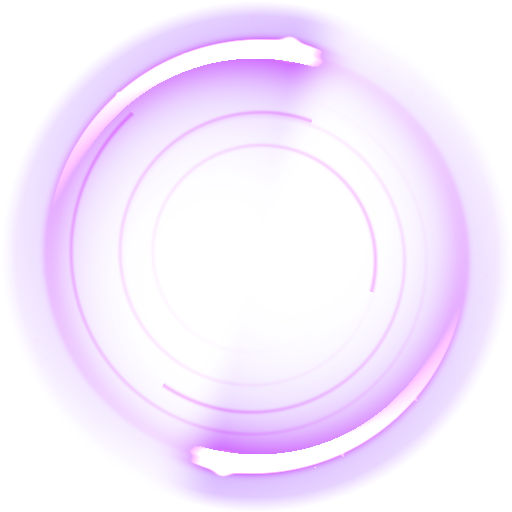
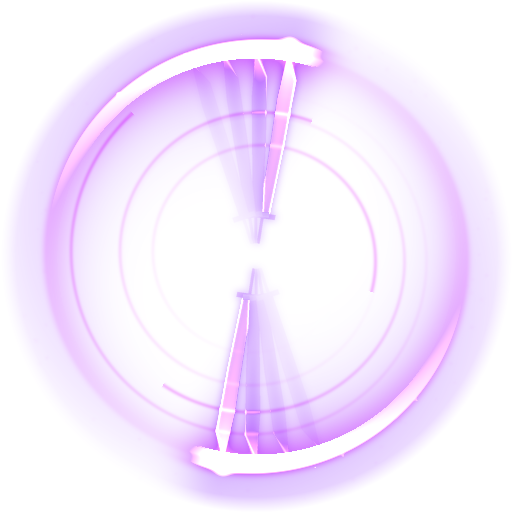
Bá Đao Trảm: thêm bóng đao trong vòng xoáy, xoay đúng chiều; đao khí bay đồng tâm với vòng xoáy (nở rộng từ mép vòng), kiểm tra đủ 8 hướng
Claude-Session: https://claude.ai/code/session_014A94BHnyL4tu48AS77QbVM

Changed region(s): [[0.4375, 0.0938, 0.5938, 0.4688], [0.4062, 0.5312, 0.5625, 0.9062]]

diff --git a/src/vfx/skillFx.ts b/src/vfx/skillFx.ts
@@ -160,7 +160,8 @@ export const baDaoKey = (d: string): string => `vx_badao_${d}`;
 export const baDaoWaveKey = (d: string): string => `vx_badao_wave_${d}`;
 /** độ đục tối đa của vòng đao khí + đao khí bay (làm mờ bớt để không che quái / nhân vật) */
 const BA_DAO_ALPHA = 0.72;
-const baDaoDir = (a: number): string => BA_DAO_DIRS[((Math.round(a / (Math.PI / 4)) % 8) + 8) % 8];
+/** phối cảnh mặt đất ảnh đao khí bay dựng sẵn (tools/art/ba_dao_wave.py: K) */
+const BA_DAO_WAVE_K = 0.7;
 
 export const BA_DAO_SPIN = 'vx_badao_spin';
 
@@ -204,16 +205,31 @@ const baDao: Fx = (s, aw) => {
       k.glow(nearest.x, nearest.y - 12, 0xf0a0ff, 34, 200);
       k.burst(nearest.x, nearest.y - 12, [0xffffff, 0xf08aff], 6, { tex: VT.SPARK, speed: [80, 200], scale: [0.35, 0], life: 240 });
     }
-    // THỨC TỈNH: cứ 3 vòng văng 1 đao khí bay xuyên về phía quái gần nhất
+    // THỨC TỈNH: cứ 3 vòng văng 1 đao khí — cung lưỡi liềm ĐỒNG TÂM với vòng đao xoáy: tâm ảnh đặt đúng tâm vòng,
+    // bắt đầu ở đúng mép vòng rồi NỞ RỘNG ra (không trượt lệch tâm). Ảnh dựng sẵn 8 hướng (ba_dao_wave.py: mép trước bán
+    // kính 300 đơn vị mặt đất, khung ±380 → 151,6px/ảnh 384; phối cảnh K=0,7) → ép thêm dọc để khớp KY của vòng xoáy.
     if (aw && spins % 3 === 0) {
       const tg = s.targets().slice().sort((p1, p2) => dist(p1, h) - dist(p2, h))[0];
-      const a = tg ? ang(h, tg) : a0;
-      const end = polar(h, a, 300);
-      const w = sc.add.image(h.x, h.y, baDaoWaveKey(baDaoDir(a))).setDepth(9).setAlpha(0).setScale(0.6);
-      sc.tweens.add({ targets: w, alpha: BA_DAO_ALPHA, scale: 0.8, duration: 90, ease: 'Quad.easeOut' });
-      sc.tweens.add({ targets: w, x: end.x, y: end.y, duration: 480, ease: 'Sine.easeIn' });
+      const f = foot();
+      // so trên MẶT ĐẤT (bỏ ép dẹt): hướng tới quái ↔ hướng mặt đất của từng ảnh (ảnh dựng theo góc màn hình với K=0,7)
+      const want = tg ? Math.atan2((tg.y - f.y) / KY, tg.x - f.x) : a0;
+      const gA = (i: number) => Math.atan2(Math.sin((i * Math.PI) / 4) / BA_DAO_WAVE_K, Math.cos((i * Math.PI) / 4));
+      let bi = 0;
+      for (let i = 1; i < 8; i++) if (Math.abs(Phaser.Math.Angle.Wrap(gA(i) - want)) < Math.abs(Phaser.Math.Angle.Wrap(gA(bi) - want))) bi = i;
+      const d8 = BA_DAO_DIRS[bi], a = gA(bi);
+      const R_IMG = 157, FLY = 320;                     // 157: bán kính mép trước đo thật trên ảnh (tools/art/ba_dao_wave.py)
+      const w = sc.add.image(f.x, f.y, baDaoWaveKey(d8)).setDepth(9).setAlpha(0);
+      const sz = { r: R };
+      const put = () => w.setScale(sz.r / R_IMG, (sz.r / R_IMG) * (KY / BA_DAO_WAVE_K));
+      put();
+      sc.tweens.add({ targets: w, alpha: BA_DAO_ALPHA, duration: 80 });
+      sc.tweens.add({ targets: sz, r: FLY, duration: 460, ease: 'Sine.easeIn', onUpdate: put });
       sc.tweens.add({ targets: w, alpha: 0, delay: 320, duration: 160, onComplete: () => w.destroy() });
-      for (const o of s.targets()) if (Math.abs(Phaser.Math.Angle.Wrap(ang(h, o) - a)) < 0.25 && dist(h, o) < 300) k.later((dist(h, o) / 300) * 420, () => s.hit(o, 0xf0a0ff));
+      for (const o of s.targets()) {
+        const od = Math.hypot(o.x - f.x, (o.y - f.y) / KY);
+        if (od > R && od < FLY && Math.abs(Phaser.Math.Angle.Wrap(Math.atan2((o.y - f.y) / KY, o.x - f.x) - a)) < 0.45)
+          k.later(((od - R) / (FLY - R)) * 400, () => s.hit(o, 0xf0a0ff));
+      }
     }
   };
   const ev = sc.time.addEvent({
@@ -221,9 +237,9 @@ const baDao: Fx = (s, aw) => {
       t += 16;
       const f = foot();
       ct.setPosition(f.x, f.y);
-      const rot = -(t / SPIN) * Math.PI * 2;                            // xoay ngược chiều kim đồng hồ trên màn hình
+      const rot = (t / SPIN) * Math.PI * 2;                             // xoay THEO chiều kim đồng hồ trên màn hình (đầu vệt + lưỡi đao đi trước)
       im.setRotation(rot);
-      ghost.setRotation(rot + 0.5);
+      ghost.setRotation(rot - 0.5);
       s.pose?.('ba_dao', 0, a0 + rot);                                  // nhân vật xoay theo vòng đao (đổi hướng nhìn liên tục)
       if (Math.floor(t / SPIN) > spins) { spins++; slash(); }
       if (t >= DUR) {

diff --git a/tools/art/ba_dao_spin.py b/tools/art/ba_dao_spin.py
@@ -2,7 +2,9 @@
 BÁ ĐAO TRẢM (đại trùng tu: XOAY ĐAO) — VÒNG ĐAO KHÍ XOÁY, vẽ mới, nhìn TỪ TRÊN XUỐNG (game ép dẹt theo mặt đất + xoay nhanh):
   · 2 vệt chém hình lưỡi liềm đối xứng chạy quanh vòng tròn: ĐẦU vệt dày + sáng (mép lưỡi đao trắng), ĐUÔI mảnh + mờ dần
     (vệt nhoè chuyển động) — chiều xoay: ngược chiều kim đồng hồ trên ảnh (đầu vệt ở góc lớn nhất)
+  · BÓNG ĐAO: ở đầu mỗi vệt chém có 1 thanh đao (nhìn từ trên: chuôi ở tâm, mũi đao chạm vòng) + 3 bóng mờ đuổi theo sau
   · các sợi gió xoáy mảnh bên trong, bụi sáng li ti văng ở mép ngoài
+  · chiều xoay trong game: THEO chiều kim đồng hồ trên màn hình (đầu vệt đi trước)
   · màu: lõi trắng → tím hồng → tím đậm (cùng tông Bá Đao 0xe080ff / 0xb040ff), ảnh cộng sáng (ADD)
   → public/vfx/ba_dao_spin.png 512×512, tâm ảnh = chỗ nhân vật đứng; mép ngoài vệt chém ở ~0,9 nửa ảnh
   python3 -I tools/art/ba_dao_spin.py
@@ -59,9 +61,37 @@ def main():
         a = rng.uniform(0, 2 * np.pi); rr = rng.uniform(0.82, 0.98)
         px, py = np.cos(a) * rr * N / 2, np.sin(a) * rr * N / 2
         dust += np.exp(-((x - px) ** 2 + (y - py) ** 2) / (2 * rng.uniform(0.8, 1.8) ** 2)) * rng.uniform(0.4, 1)
+    # bóng đao ở đầu mỗi vệt chém: thanh đao hướng tâm + 3 bóng mờ trễ dần (vệt nhoè)
+    from PIL import ImageDraw, ImageFilter
+    S2 = 3
+    bl = Image.new('L', (N * S2, N * S2), 0)
+    ed = Image.new('L', (N * S2, N * S2), 0)
+    db, de = ImageDraw.Draw(bl), ImageDraw.Draw(ed)
+    C = N * S2 / 2
+    RAD = N / 2 * S2
+
+    def blade(ang, a8):
+        ux, uy = np.cos(ang), np.sin(ang)
+        vx, vy = np.cos(ang + np.pi / 2), np.sin(ang + np.pi / 2)        # phía lưỡi = phía đi trước (theo chiều xoay)
+        P = lambda rr, w: (C + (ux * rr + vx * w) * RAD, C + (uy * rr + vy * w) * RAD)
+        # lưỡi đao cong: sống thẳng, lưỡi phình về phía trước, mũi vát nhọn
+        spine = [P(0.17, -0.012), P(0.62, -0.014), P(0.80, 0.0)]
+        edge = [P(0.80, 0.0), P(0.70, 0.045), P(0.45, 0.04), P(0.17, 0.026)]
+        db.polygon(spine + edge, fill=a8)
+        de.line(edge, fill=a8, width=2 * S2)                             # mép lưỡi sáng
+        db.polygon([P(0.15, -0.04), P(0.17, -0.04), P(0.17, 0.05), P(0.15, 0.05)], fill=a8)   # chắn tay
+        db.line([P(0.05, 0), P(0.15, 0)], fill=int(a8 * 0.8), width=3 * S2)                   # chuôi
+    for arm in range(2):
+        head = arm * np.pi + SPAN
+        for g, a8 in ((0.0, 255), (-0.16, 120), (-0.32, 70), (-0.48, 40)):
+            blade(head + g, a8)
+    bl = np.array(bl.resize((N, N), Image.LANCZOS)).astype(float) / 255
+    ed = np.array(ed.resize((N, N), Image.LANCZOS).filter(ImageFilter.GaussianBlur(0.6))).astype(float) / 255
+    blg = np.array(Image.fromarray((bl * 255).astype(np.uint8)).filter(ImageFilter.GaussianBlur(4))).astype(float) / 255
     fade = np.clip((1 - r) / 0.06, 0, 1)
     acc = (core[..., None] * WHITE + glow[..., None] * PINK * 0.85 + haze[..., None] * PURPLE * 0.6
-           + swirl[..., None] * PINK + dust[..., None] * WHITE * 0.8) * fade[..., None]
+           + swirl[..., None] * PINK + dust[..., None] * WHITE * 0.8
+           + bl[..., None] * np.array([230, 200, 255.]) * 0.75 + ed[..., None] * WHITE + blg[..., None] * PURPLE * 0.5) * fade[..., None]
     acc = np.clip(acc, 0, 255)
     A = acc.max(2) / 255
     col = acc / np.maximum(A[..., None], 1e-3)
